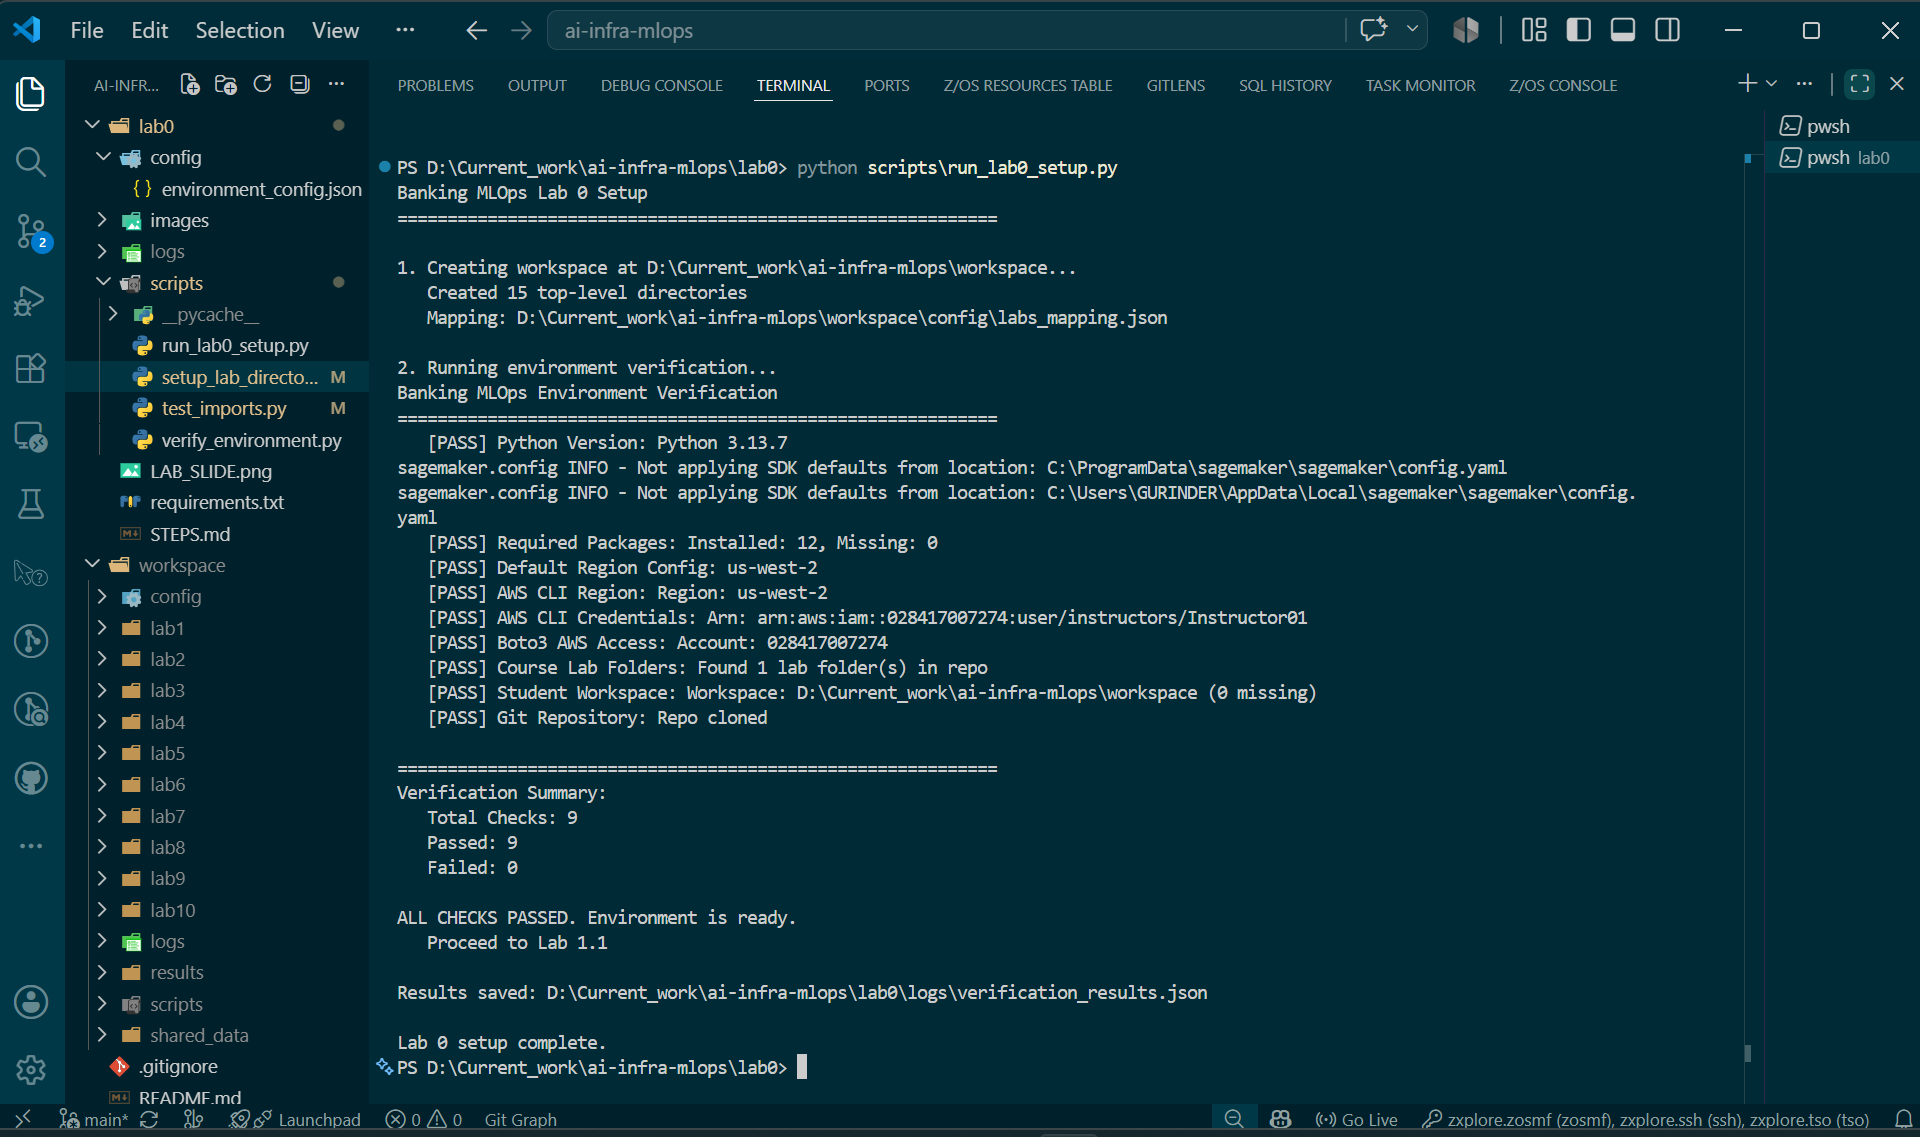
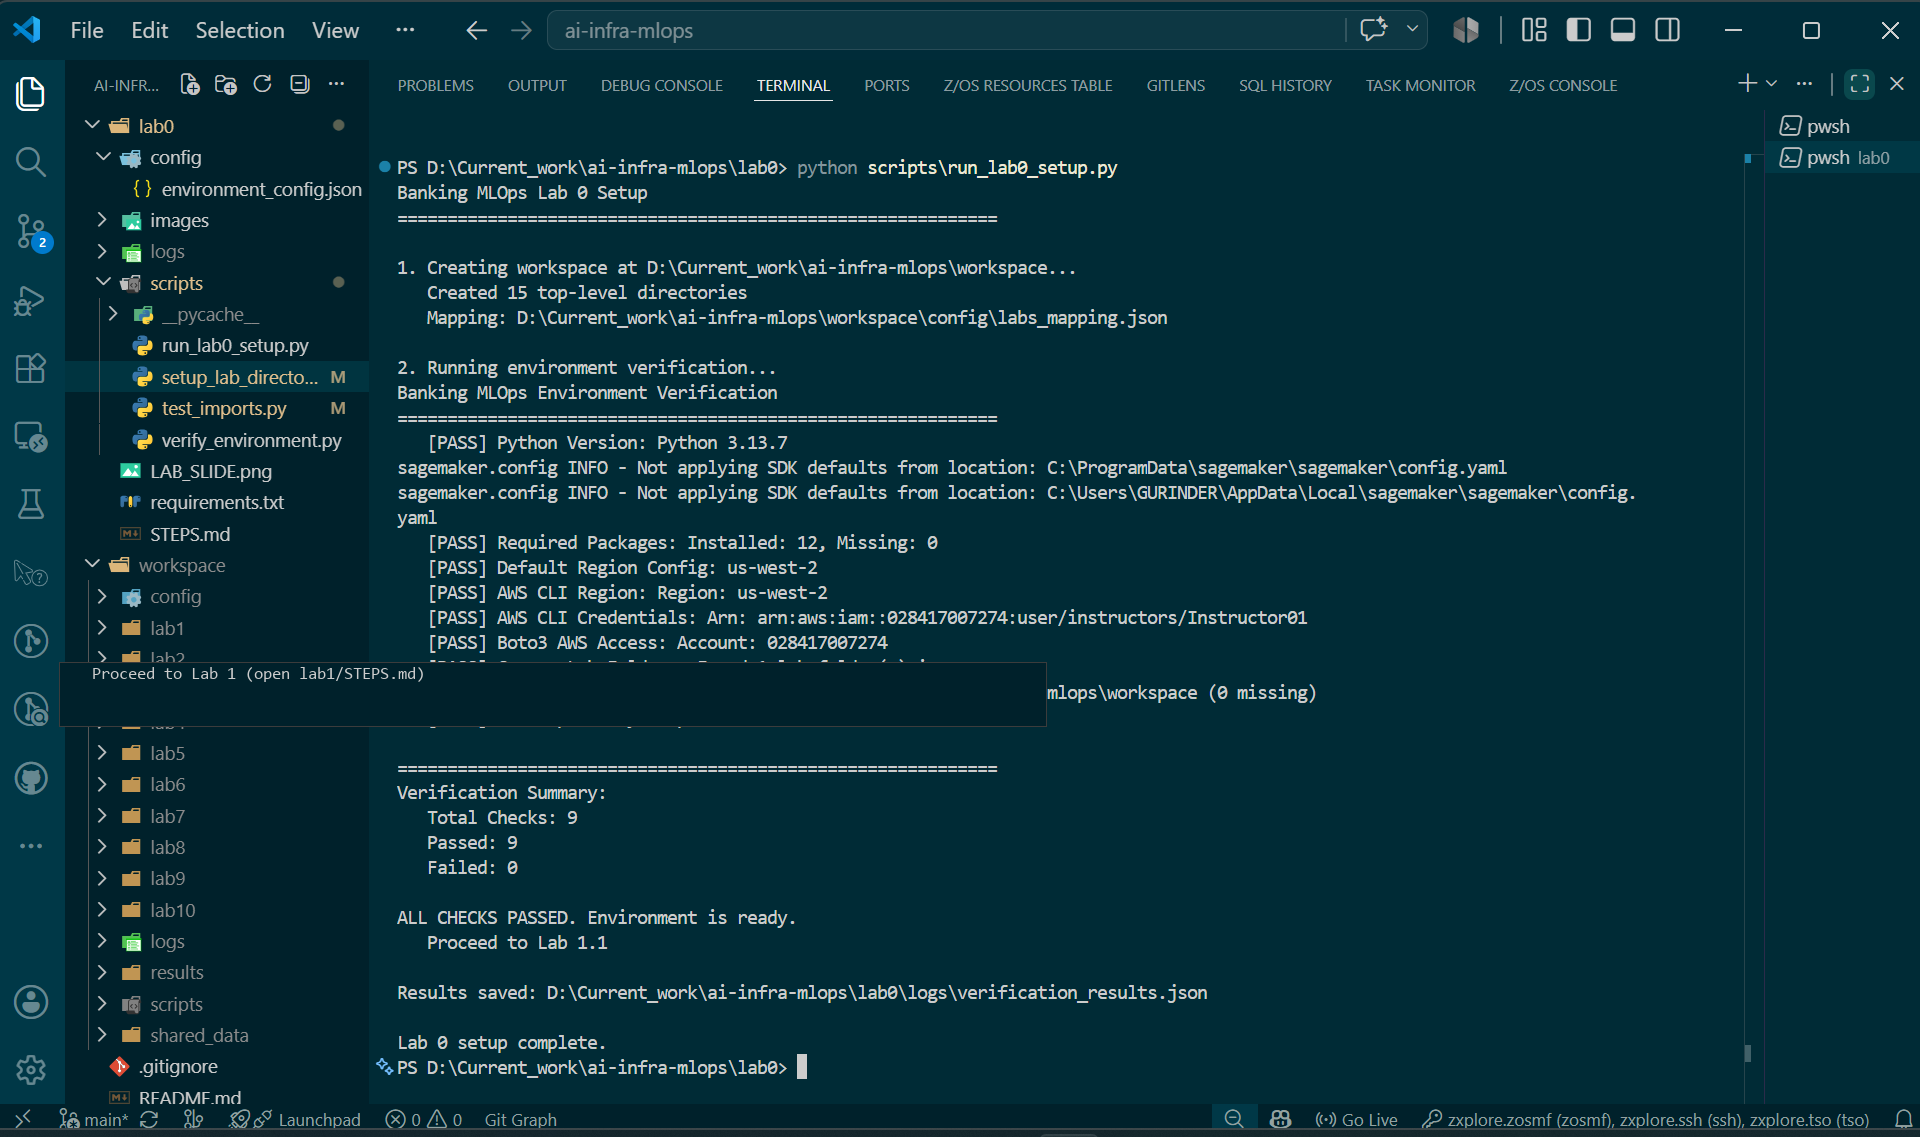
Align Lab 0-2 naming with labN folders and update validation screenshots.
Rename Lab 1.1/1.2 references to Lab 1/2 in STEPS and scripts; overlay proceed messages on step 11 and step 9b images.

Changed region(s): [[0.1562, 0.5849, 0.5312, 0.6464], [0.0312, 0.5849, 0.0938, 0.6464]]

diff --git a/lab2/scripts/validate_lab2.py b/lab2/scripts/validate_lab2.py
@@ -1,4 +1,4 @@
-"""Validate Lab 1.2 prerequisites and outputs."""
+"""Validate Lab 2 prerequisites and outputs."""
 import json
 import sys
 from pathlib import Path
@@ -8,7 +8,7 @@ from lab_paths import CONFIG_DIR, DATA_DIR, LAB1_CONFIG_DIR, ensure_workspace
 
 def validate_lab2():
     ensure_workspace()
-    print("Validate Lab 1.2")
+    print("Validate Lab 2")
     print("=" * 60)
 
     ok = True
@@ -16,9 +16,9 @@ def validate_lab2():
     for name in ("buckets.json", "iam_roles.json"):
         path = LAB1_CONFIG_DIR / name
         if path.exists():
-            print(f"   ✅ Lab 1.1 config: {name}")
+            print(f"   ✅ Lab 1 config: {name}")
         else:
-            print(f"   ❌ Missing Lab 1.1 config: {path}")
+            print(f"   ❌ Missing Lab 1 config: {path}")
             ok = False
 
     expected_data = (
@@ -55,7 +55,7 @@ def validate_lab2():
 
     report = CONFIG_DIR / "lab2_validation.json"
     report.write_text(
-        json.dumps({"lab": "1.2", "prerequisites_ok": ok}, indent=2),
+        json.dumps({"lab": "2", "prerequisites_ok": ok}, indent=2),
         encoding="utf-8",
     )
 
@@ -63,7 +63,7 @@ def validate_lab2():
     if ok:
         print("Prerequisites OK — run lab2 scripts in STEPS.md order.")
     else:
-        print("Complete Lab 1.1 first.")
+        print("Complete Lab 1 first (lab1/STEPS.md).")
         sys.exit(1)
 
 

diff --git a/lab2/scripts/run_lab2.py b/lab2/scripts/run_lab2.py
@@ -1,4 +1,4 @@
-"""Run all Lab 1.2 steps in sequence."""
+"""Run all Lab 2 steps in sequence."""
 from data_drift_detection import main_drift_detection
 from data_validation import validate_all_data
 from download_banking_data import generate_banking_dataset
@@ -19,7 +19,7 @@ def run_lab2():
         ("Compliance report", generate_comprehensive_compliance_report),
     ]
 
-    print("Lab 1.2 — Banking Data Management & PII Protection")
+    print("Lab 2 — Banking Data Management & PII Protection")
     print("=" * 60)
 
     for name, fn in steps:
@@ -27,7 +27,7 @@ def run_lab2():
         fn()
 
     print("\n" + "=" * 60)
-    print("Lab 1.2 complete.")
+    print("Lab 2 complete.")
 
 
 if __name__ == "__main__":

diff --git a/lab0/scripts/verify_environment.py b/lab0/scripts/verify_environment.py
@@ -229,7 +229,7 @@ class EnvironmentVerifier:
 
         if self.failed == 0:
             print("\nALL CHECKS PASSED. Environment is ready.")
-            print("   Proceed to Lab 1.1")
+            print("   Proceed to Lab 1 (open lab1/STEPS.md)")
         else:
             print("\nSome checks failed. Fix issues before proceeding.")
 

diff --git a/lab1/scripts/validate_environment.py b/lab1/scripts/validate_environment.py
@@ -168,7 +168,7 @@ def validate_environment():
 
     if compliance_score == 100:
         print("\n✅ ALL CHECKS PASSED! Environment is compliant.")
-        print("   Proceed to Lab 1.2")
+        print("   Proceed to Lab 2 (lab2/STEPS.md)")
     else:
         print("\n⚠️ Some checks failed. Review and fix before proceeding.")
         print(f"   Check {RESULTS_DIR / 'compliance_report.json'} for details")

diff --git a/lab2/STEPS.md b/lab2/STEPS.md
@@ -1,4 +1,6 @@
-# Lab 1.2: Banking Data Management & PII Protection
+# Lab 2: Banking Data Management & PII Protection
+
+## Folder · `lab2/`
 
 ## Class · `ai-mlops-2026-jun30`
 ## Duration · 30 minutes
@@ -6,7 +8,7 @@
 ## Repo · [github.com/gjkaur/ai-infra-mlops](https://github.com/gjkaur/ai-infra-mlops)
 ## Editor · Visual Studio Code (VS Code)
 ## Terminal · PowerShell (integrated terminal only)
-## Prerequisite · [Lab 1.1](../lab1/STEPS.md) complete (`Compliance Score: 100%`)
+## Prerequisite · [Lab 1](../lab1/STEPS.md) complete in `lab1/` (`Compliance Score: 100%`)
 
 ---
 
@@ -30,7 +32,7 @@
 
 Do every step **in order**. Terminal commands run in **VS Code → PowerShell**.
 
-The full repo was cloned in Lab 0 — **no `git pull`** is needed between labs.
+The full repo was cloned in Lab 0 — **no `git pull`** is needed between labs. This guide is **`lab2/`** in the repo (Lab 2 in the course sequence).
 
 ### clear the terminal between steps
 
@@ -48,7 +50,7 @@ From **Step 2** onward:
 
 `D:\Current_work\ai-infra-mlops\workspace\lab2\`
 
-Lab 1.1 configs are read from `workspace\lab1\config\` (buckets, IAM roles).
+Lab 1 configs are read from `workspace\lab1\config\` (buckets, IAM roles).
 
 ---
 
@@ -64,9 +66,9 @@ Lab 1.1 configs are read from `workspace\lab1\config\` (buckets, IAM roles).
 
 ---
 
-# Step 1 — Confirm Lab 1.2 files in the repo
+# Step 1 — Confirm `lab2/` files in the repo
 
-**Prerequisite:** [Lab 1.1](../lab1/STEPS.md) complete (`Compliance Score: 100%`).
+**Prerequisite:** [Lab 1](../lab1/STEPS.md) complete in `lab1/` (`Compliance Score: 100%`).
 
 The full repo was cloned in Lab 0. You already have `lab2/` — **no `git pull` is needed.**
 
@@ -107,14 +109,14 @@ Under `workspace\lab2\` you see `config`, `data`, `logs`, `results`, `validation
 
 ---
 
-# Step 3 — Verify Lab 1.1 prerequisites
+# Step 3 — Verify Lab 1 prerequisites (`lab1/`)
 
 ```powershell
 clear
 python scripts\validate_lab2.py
 ```
 
-Also confirm Lab 1.1 passed:
+Also confirm Lab 1 passed in `lab1/`:
 
 ```powershell
 clear
@@ -125,10 +127,10 @@ cd ..\lab2
 
 ### Expected result
 
-`validate_lab2.py` shows `✅ Lab 1.1 config: buckets.json` and `iam_roles.json`.  
-Lab 1.1 validation shows `Compliance Score: 100.0%`.
+`validate_lab2.py` shows `✅ Lab 1 config: buckets.json` and `iam_roles.json`.  
+Lab 1 validation shows `Compliance Score: 100.0%`.
 
-**You do not re-run Lab 1.1 scripts here.** Lab 1.1 Step 6 already created the IAM roles and policies needed for Step 8.
+**You do not re-run Lab 1 scripts here.** Lab 1 Step 6 already created the IAM roles and policies needed for Step 8.
 
 ---
 
@@ -198,7 +200,7 @@ clear
 python scripts\feature_store_setup.py
 ```
 
-This step can take **several minutes**. Uses Lab 1.1 S3 buckets and IAM roles. Customer features are ingested from the engineered training dataset (one row per `customer_id`).
+This step can take **several minutes**. Uses Lab 1 S3 buckets and IAM roles from `workspace\lab1\config\`. Customer features are ingested from the engineered training dataset (one row per `customer_id`).
 
 ### Expected result
 
@@ -257,9 +259,9 @@ All data and config files from Steps 4–10 exist.
 
 # Troubleshooting
 
-### Missing Lab 1.1 config
+### Missing Lab 1 config
 
-Complete [Lab 1.1](../lab1/STEPS.md) first. `workspace\lab1\config\buckets.json` must exist.
+Complete [Lab 1](../lab1/STEPS.md) in `lab1/` first. `workspace\lab1\config\buckets.json` must exist.
 
 ### Comprehend access denied
 
@@ -267,7 +269,7 @@ Pattern-based PII detection still runs. Ensure your student role can call `compr
 
 ### Feature Store errors
 
-1. Re-run Step 8 after the SageMaker domain is `InService` from Lab 1.1.
+1. Re-run Step 8 after the SageMaker domain is `InService` from Lab 1 (`lab1/`).
 2. Feature groups are idempotent on re-run. If ingest fails because records already exist, that warning is OK — check that `config\feature_store_config.json` was saved.
 
 ### Instructor re-screenshot
@@ -276,6 +278,6 @@ Delete `workspace\lab2\data\*` and `workspace\lab2\config\*.json`, then re-run s
 
 ---
 
-## Lab 1.2 complete
+## Lab 2 complete
 
 Return to **[README.md](../README.md)** for the next lab in the course sequence.

diff --git a/lab1/STEPS.md b/lab1/STEPS.md
@@ -1,4 +1,6 @@
-# Lab 1.1: Secure MLOps Environment Setup
+# Lab 1: Secure MLOps Environment Setup
+
+## Folder · `lab1/`
 
 ## Class · `ai-mlops-2026-jun30`
 ## Duration · 30 minutes
@@ -35,7 +37,7 @@
 
 Do every step **in order**. Terminal commands run in **Visual Studio Code (VS Code) → PowerShell**. Some verification steps use the **Amazon Web Services (AWS) Console** in your browser.
 
-The full repo was cloned in Lab 0 — **no `git pull`** is needed between labs.
+The full repo was cloned in Lab 0 — **no `git pull`** is needed between labs. This guide is **`lab1/`** in the repo (Lab 1 in the course sequence).
 
 ### clear the terminal between steps
 
@@ -70,9 +72,9 @@ That folder is gitignored — your AWS resource IDs stay on your machine only.
 
 ---
 
-# Step 1 — Confirm Lab 1.1 files in the repo
+# Step 1 — Confirm `lab1/` files in the repo
 
-**Prerequisite:** Lab 0 verification passed.
+**Prerequisite:** [Lab 0](../lab0/STEPS.md) complete (`lab0/`).
 
 The full repo was cloned in Lab 0. You already have `lab1/` — **no `git pull` is needed.**
 
@@ -275,7 +277,7 @@ python scripts\validate_environment.py
 
 ![Step 9a — validation checks running](images/step-09a-validation.png)
 
-![Step 9b — 100% compliant, proceed to Lab 1.2](images/step-09b-validation-pass.png)
+![Step 9b — 100% compliant, proceed to Lab 2](images/step-09b-validation-pass.png)
 
 Or run the full lab in one command (Steps 4–9):
 
@@ -290,7 +292,7 @@ python scripts\run_lab1.py
 Compliance Score: 100.0%
 Status: COMPLIANT
 ALL CHECKS PASSED! Environment is compliant.
-   Proceed to Lab 1.2
+   Proceed to Lab 2 (`lab2/STEPS.md`)
 ```
 
 Report saved to `workspace\lab1\results\compliance_report.json`.
@@ -388,6 +390,6 @@ Student accounts need **PowerUserAccess** + **IAMFullAccess** (from Lab 0).
 
 ---
 
-## Lab 1.1 complete
+## Lab 1 complete
 
-Next: **[Lab 1.2 — Banking Data Management & PII Protection](../lab2/STEPS.md)**.
+Next: **[Lab 2 — Banking Data Management & PII Protection](../lab2/STEPS.md)** (`lab2/`).

diff --git a/lab0/STEPS.md b/lab0/STEPS.md
@@ -59,6 +59,12 @@ From **Step 4** onward, terminal steps assume this prompt:
 
 Your instructor releases the **full lab repository** before you start. The `git clone` in **Step 2** downloads every lab folder (`lab0`, `lab1`, `lab2`, …) and every `STEPS.md` guide. You do **not** need `git pull` when moving from one lab to the next.
 
+| Folder | Lab guide |
+|--------|-----------|
+| `lab0/` | Lab 0 — Environment Setup |
+| `lab1/` | Lab 1 — Secure MLOps Environment Setup |
+| `lab2/` | Lab 2 — Banking Data Management & PII Protection |
+
 ---
 
 # Credentials (from instructor)
@@ -447,7 +453,7 @@ python scripts\verify_environment.py
 
 ```
 ALL CHECKS PASSED. Environment is ready.
-   Proceed to Lab 1.1
+   Proceed to Lab 1 (open `lab1/STEPS.md`)
 ```
 
 ---
@@ -494,4 +500,4 @@ Re-run `python scripts\setup_lab_directories.py` from `lab0/`; check `..\workspa
 
 ## Lab 0 complete
 
-Next: **[lab1/STEPS.md](../lab1/STEPS.md)** — Secure MLOps Environment Setup.
+Next: **[Lab 1 — Secure MLOps Environment Setup](../lab1/STEPS.md)** (`lab1/`).